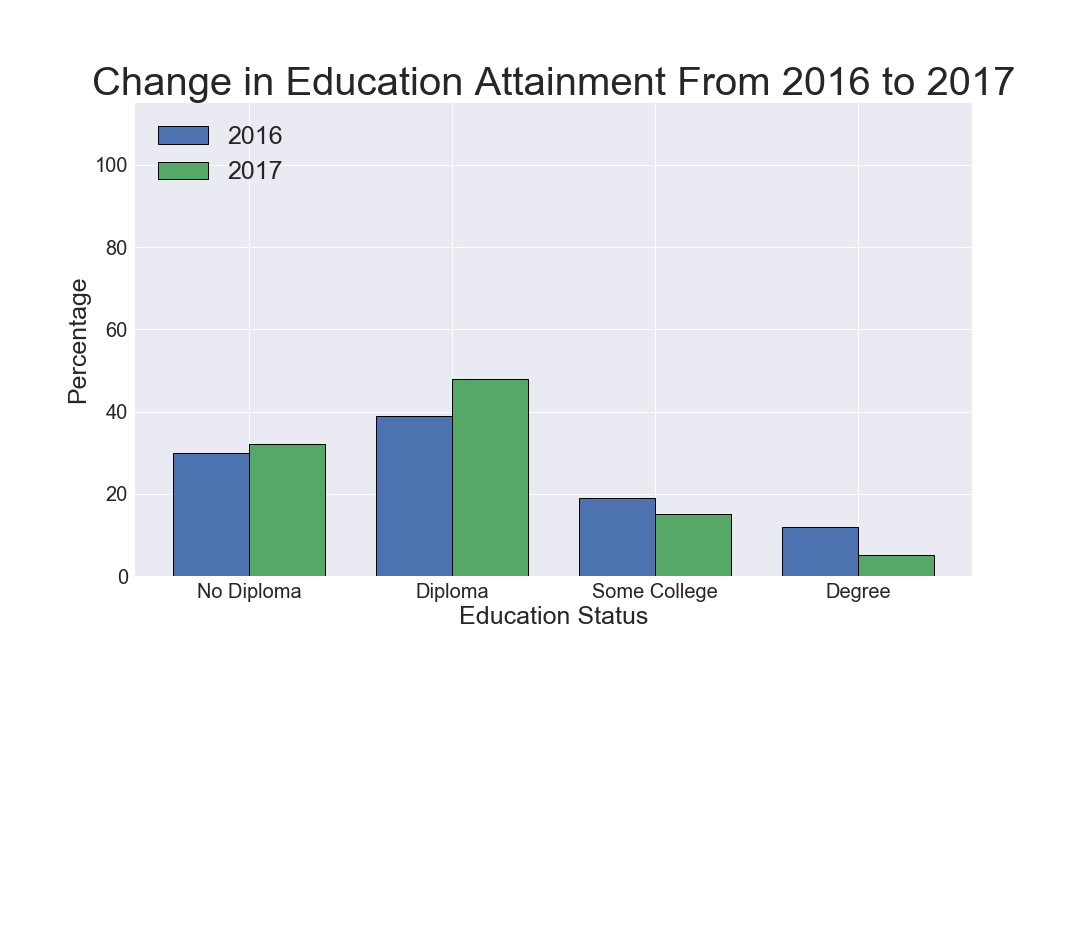
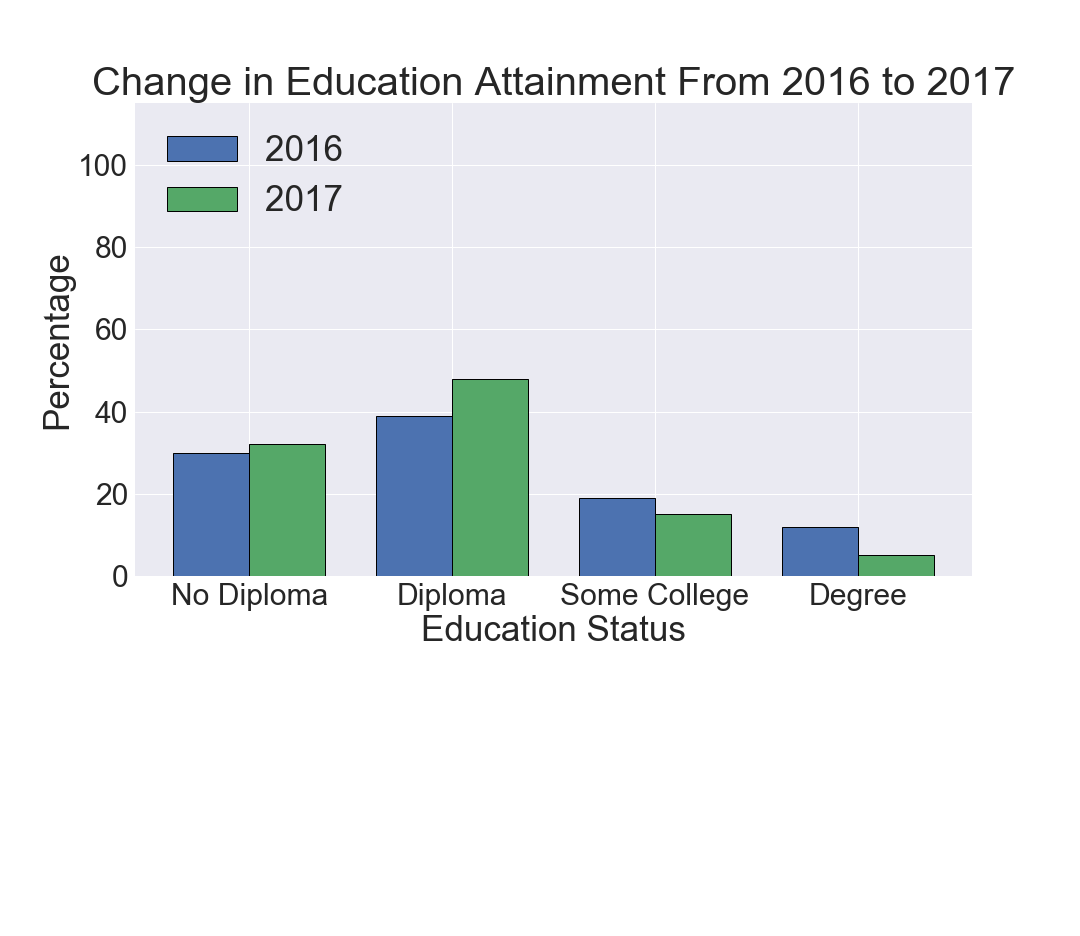
src code finished

diff --git a/src/make_figures.py b/src/make_figures.py
@@ -7,11 +7,14 @@ import pandas as pd
 import matplotlib.pyplot as plt
 
 
-def make_all_figures(df):
+def make_all_figures():
     """
     df must be all youth and unweighted
     """
-    four_race, age, education, all_races = page_2_tables(df, save = True) # all breakups as df
+    total_youth_unweighted = get_youth_by_puma(start_puma = 11610, end_puma = 11615, dbname = 'opportunity_youth')
+    oy_by_puma = get_oy_by_puma(start_puma = 11610, end_puma = 11615, dbname = 'opportunity_youth')
+    
+    four_race, age, education, all_races = page_2_tables(total_youth_unweighted, save = True) # all breakups as df
     four_race_2016, age_2016, edu_2016 = get_2016_tables(save = True)
 
     plt.style.use('seaborn')
@@ -24,7 +27,7 @@ def make_all_figures(df):
     fig, axes = graph_compare_percents_cols([edu_2016, education], ['2016', '2017'], 'Education Status')
     display_one_axis(fig, axes, 3,
                      title = 'Change in Education Attainment From 2016 to 2017',
-                     save_name = '../reports/figures/reeeeeeeeeeeeducation_change_2016_2017.png')
+                     save_name = '../reports/figures/education_change_2016_2017.png')
 
     fig, axes = graph_compare_percents_rows([four_race_2016, four_race], ['2016', '2017'], 'Race')
     fig.savefig("../reports/figures/oy_by_race_2016_2017.png")

diff --git a/src/multi_bar_grapher.py b/src/multi_bar_grapher.py
@@ -97,16 +97,17 @@ def multi_bar_graph(table_list, name_list, x_label):
                    #color = ['b','g','r','y','k'][counter % 5],
                    align = 'center',
                    label = name_list[counter], edgecolor = 'black', linewidth = 1)
-            ax.set_title(index, fontsize = 40)
-            ax.set_ylabel('Percentage', fontsize = 25)
-            ax.set_xlabel(x_label, fontsize = 25)
+            ax.set_title(index, fontsize = 50)
+            ax.set_ylabel('Percentage', fontsize = 35)
+            ax.set_xlabel(x_label, fontsize = 35)
             ax.set_ylim(0, 115)
-            ax.set_yticklabels([str(i * 20) for i in range(6)], fontsize = 20)
+            ax.set_yticklabels([str(i * 20) for i in range(6)], fontsize = 30)
+            ax.set_xticklabels(tuple(table.columns), fontsize = 30)
             ax.set_xticks(x + width / 2)
-            ax.set_xticklabels(tuple(table.columns), fontsize = 20)
-            ax.legend(loc = 'upper left', fontsize = 25)
+            ax.legend(loc = 'upper left', fontsize = 35)
             row_num += 1
         counter += 1
+    fig.tight_layout()
     return fig, axes
 
 def display_one_axis(fig, axes, index, title = '', save_name = ''):
